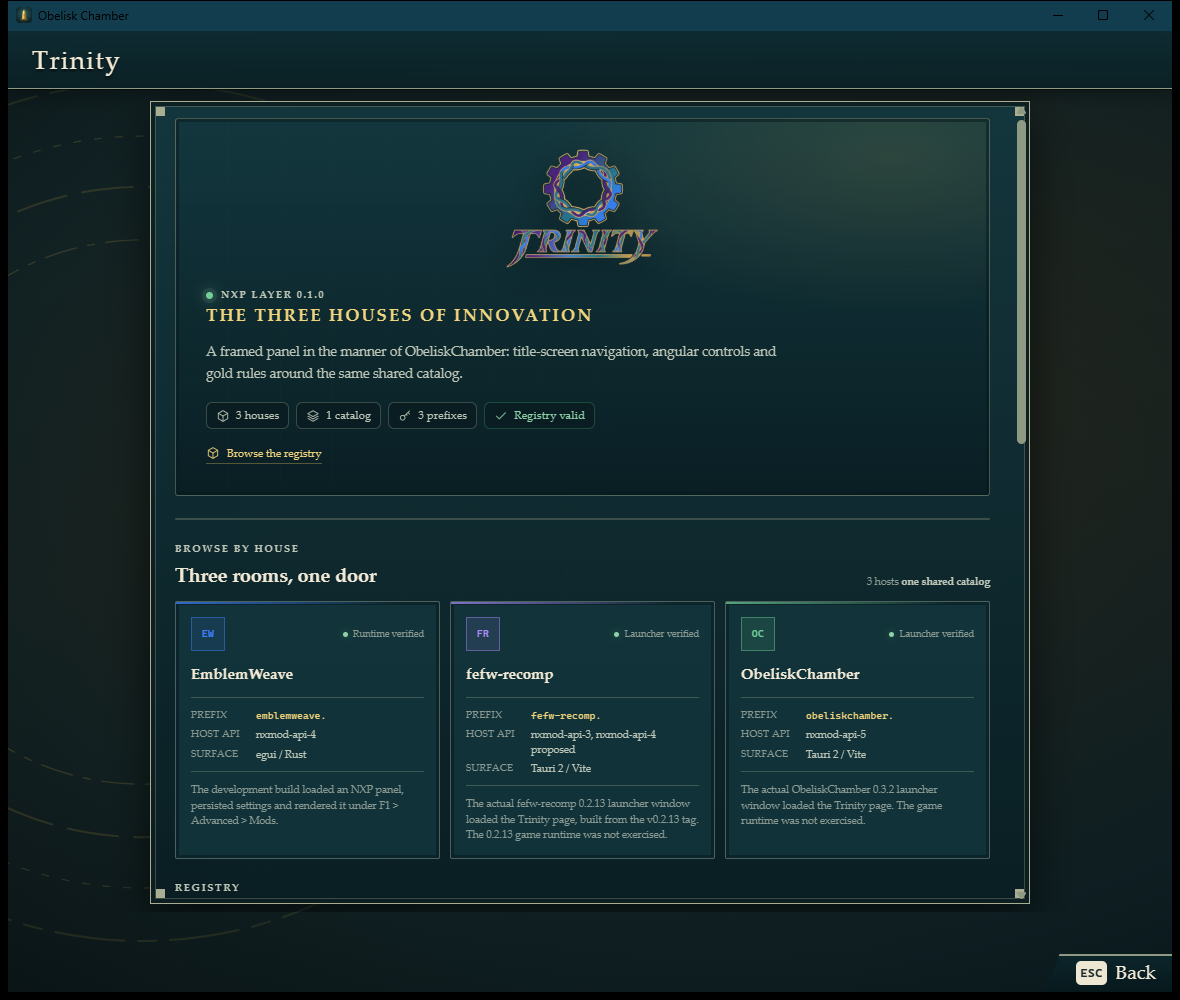
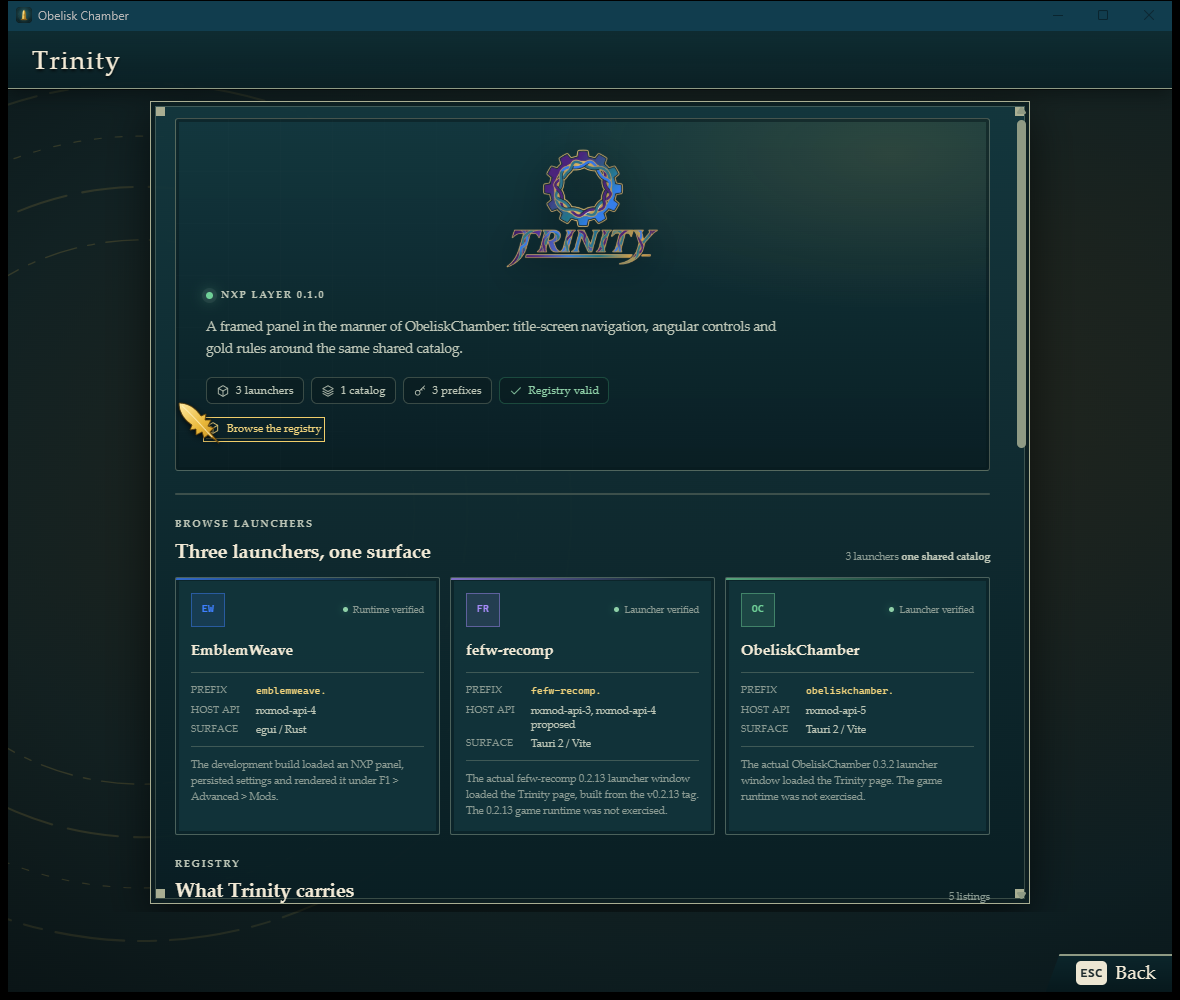
Remove the remaining old tagline from the Trinity surface
Drop the catalog tagline and house section labels, use launcher language in the shared and native pages, and replace the three launcher captures with the rebuilt windows.

diff --git a/ui/trinity-ui.js b/ui/trinity-ui.js
@@ -11,7 +11,7 @@ import { classifyInterface, validateRegistry } from './prefix-core.mjs';
 
 const HOST_COPY = {
   'fefw-recomp': {
-    intro: 'Cool surfaces, soft corners and the existing fefw-recomp navigation. Trinity adds a room, not a second launcher.',
+    intro: 'Cool surfaces, soft corners and the existing fefw-recomp navigation. Trinity adds a page, not a second launcher.',
     note: 'Built from the upstream launcher source. The packaged 0.2.13 runtime was not rebuilt for this test.'
   },
   'obelisk-chamber': {
@@ -88,7 +88,7 @@ function prefixRows() {
 export function renderTrinity(view, options = {}) {
   const hostId = options.host ?? 'file';
   const copy = HOST_COPY[hostId] ?? {
-    intro: 'One catalog, three native presentations, and a namespace that tells every interface which house it belongs to.',
+    intro: 'One catalog, three native presentations, and a namespace that tells every interface which launcher it belongs to.',
     note: 'Standalone preview of the shared Trinity surface.'
   };
   const current = catalog.houses.find((house) => house.id === hostId);
@@ -102,10 +102,9 @@ export function renderTrinity(view, options = {}) {
       </div>
       <div class="trinity-hero-copy">
         <div class="trinity-eyebrow"><i></i>NXP LAYER ${esc(catalog.version)}</div>
-        <p class="trinity-tagline">${esc(catalog.tagline)}</p>
         <p class="trinity-intro">${esc(copy.intro)}</p>
         <div class="trinity-badges">
-          <span>${icon('cube')} 3 houses</span>
+          <span>${icon('cube')} ${catalog.houses.length} launchers</span>
           <span>${icon('layers')} 1 catalog</span>
           <span>${icon('key')} ${prefixes.hosts.length} prefixes</span>
           <span class="${validation.ok ? 'ok' : 'warn'}">${icon(validation.ok ? 'check' : 'compass')} ${validation.ok ? 'Registry valid' : 'Registry needs attention'}</span>
@@ -115,7 +114,7 @@ export function renderTrinity(view, options = {}) {
     </section>
 
     <section class="trinity-metrics" aria-label="Trinity at a glance">
-      <div><strong>${catalog.houses.length}</strong><span>Houses connected</span><em>one shared contract</em></div>
+      <div><strong>${catalog.houses.length}</strong><span>Launchers connected</span><em>one shared contract</em></div>
       <div><strong>${total}</strong><span>Listings</span><em>runtimes, bridges, standards</em></div>
       <div><strong>${prefixes.hosts.length + prefixes.neutral.length}</strong><span>Owned prefixes</span><em>no silent collisions</em></div>
       <div><strong>${catalog.capabilities.length}</strong><span>Core capabilities</span><em>UI, settings, files, frame</em></div>
@@ -123,8 +122,8 @@ export function renderTrinity(view, options = {}) {
 
     <section class="trinity-section">
       <div class="trinity-section-head">
-        <div><span class="trinity-kicker">Browse by house</span><h2>Three rooms, one door</h2></div>
-        <span class="trinity-count">${catalog.houses.length} hosts <b>one shared catalog</b></span>
+        <div><span class="trinity-kicker">Browse launchers</span><h2>Three launchers, one surface</h2></div>
+        <span class="trinity-count">${catalog.houses.length} launchers <b>one shared catalog</b></span>
       </div>
       <div class="trinity-houses">${catalog.houses.map(hostCard).join('')}</div>
     </section>
@@ -135,7 +134,7 @@ export function renderTrinity(view, options = {}) {
         <span class="trinity-count" id="trinity-result-count">${total} listings</span>
       </div>
       <div class="trinity-toolbar">
-        <label class="trinity-search">${icon('search')}<input id="trinity-search" type="search" placeholder="Search listings, hosts or prefixes" autocomplete="off" spellcheck="false"></label>
+        <label class="trinity-search">${icon('search')}<input id="trinity-search" type="search" placeholder="Search listings, launchers or prefixes" autocomplete="off" spellcheck="false"></label>
         <div class="trinity-filters" role="group" aria-label="Filter listings">
           <button type="button" class="active" data-filter="all">All</button>
           <button type="button" data-filter="runtime">Runtime</button>

diff --git a/ui/trinity.css b/ui/trinity.css
@@ -93,15 +93,6 @@
 }
 .trinity-logo-row { position: relative; z-index: 1; display: flex; justify-content: center; width: 100%; }
 .trinity-logo { display: block; width: 176px; max-width: 46%; height: auto; filter: drop-shadow(0 10px 18px rgba(0, 0, 0, .38)); }
-.trinity-tagline {
-  margin-top: 6px;
-  color: var(--t-gold-soft);
-  font-family: var(--font-display, var(--font-ui, inherit));
-  font-size: 17px;
-  font-weight: 600;
-  letter-spacing: .12em;
-  text-transform: uppercase;
-}
 .trinity-intro {
   max-width: 600px;
   margin-top: 12px !important;

diff --git a/README.md b/README.md
@@ -1,14 +1,10 @@
 <p align="center">
-  <img src="assets/brand/trinity.png" alt="Trinity: The Three Houses Of Innovation" width="360">
+  <img src="assets/brand/trinity.png" alt="Trinity" width="360">
 </p>
 
 # Trinity
 
-**Trinity: The Three Houses Of Innovation**
-
-**Three Houses. One Vision.**
-
-**Three projects. Three launchers. One shared plugin ecosystem.**
+**Shared plugin layer for EmblemWeave, fefw-recomp and ObeliskChamber.**
 
 Trinity is the shared plugin framework for three independent *Fire Emblem: Fortune's Weave* projects:
 
@@ -163,4 +159,4 @@ The three host projects remain independent. Changes to a host repository require
 
 Do not claim support for a host or a platform without a matching entry in the compatibility matrix and evidence for the exact level claimed.
 
-Independent projects, shared innovation, weaved together.
+Independent launchers, one shared plugin layer.

diff --git a/docs/evidence/README.md b/docs/evidence/README.md
@@ -22,7 +22,7 @@ mock or a dev-server render.
 | `launcher-obelisk-trinity.png` | The actual ObeliskChamber 0.3.2 Tauri window with the Trinity page open. Built from the current 0.3.2 source with the shared surface. Captured with the Windows window API at 1180 x 1000. |
 
 The three launcher images show the supplied gear-and-ribbon logo at the top of
-the page. The house labels below each launcher name were removed; the launcher
+the page. The old labels below each launcher name were removed; the launcher
 name and its accent color carry the identity instead.
 
 ## How the launcher captures were made
